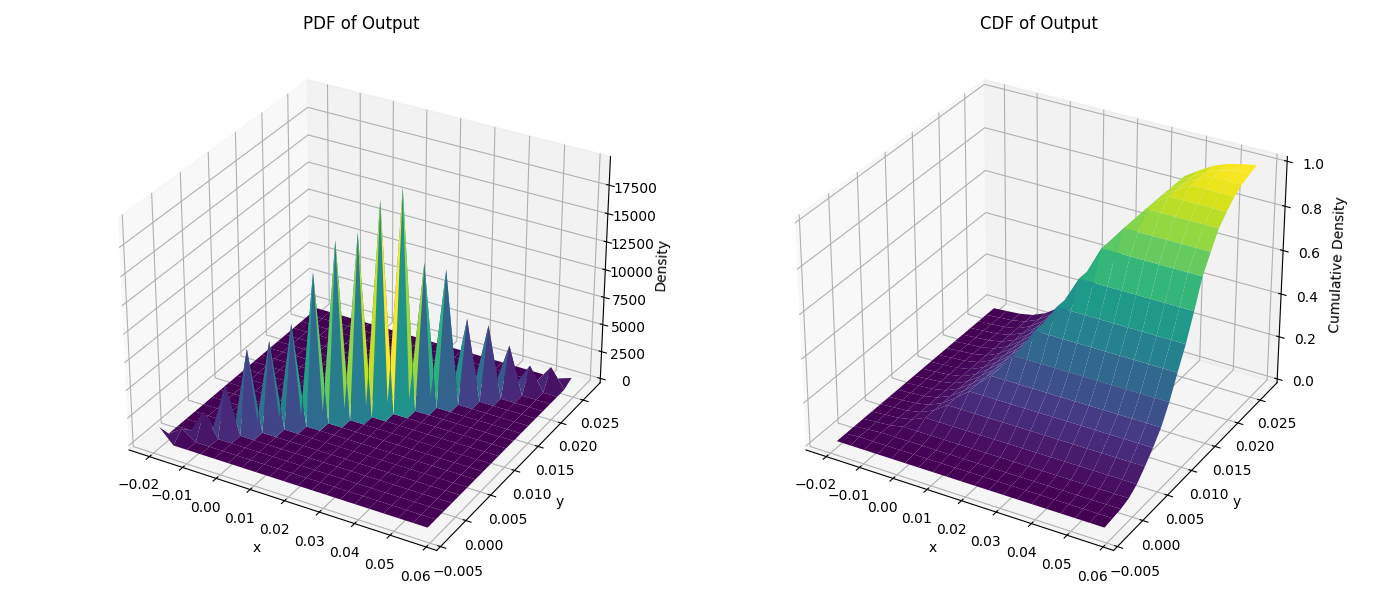
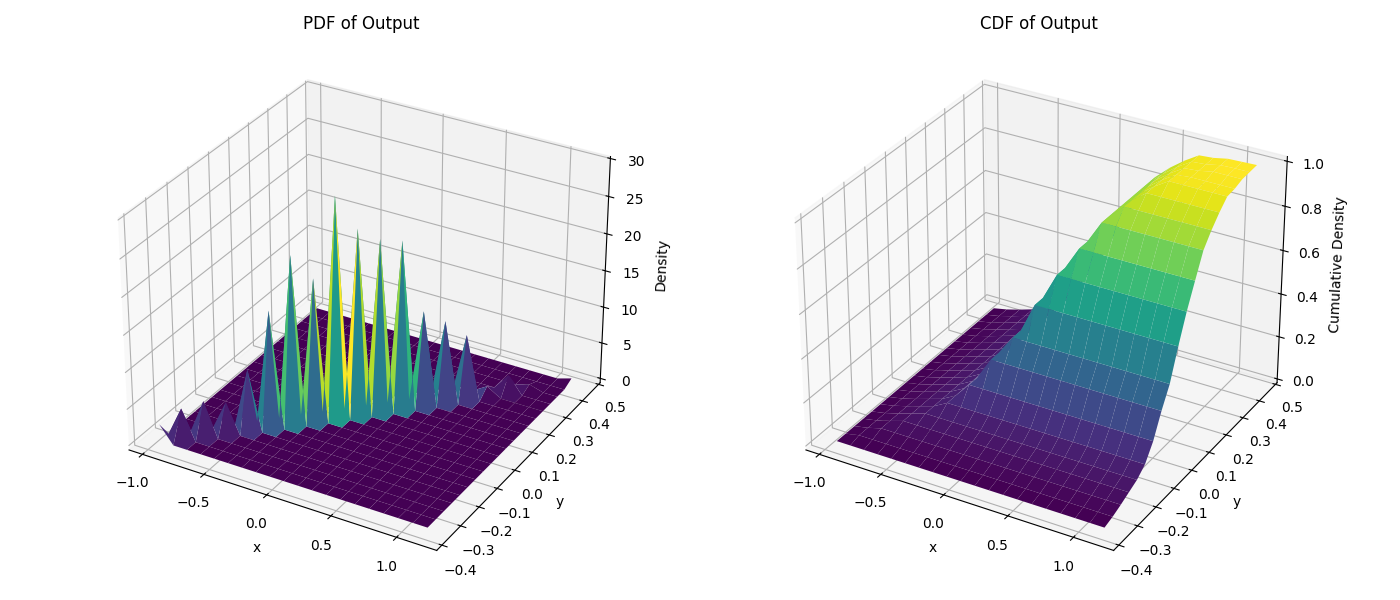
save

diff --git a/src/exame/cnice/34node/disaccuracyrtry.py b/src/exame/cnice/34node/disaccuracyrtry.py
@@ -89,7 +89,7 @@ _weights = np.random.randint(1, 10, size=(n_components,))
 _weights = _weights / np.sum(_weights)
 _weights = _weights.round(2)
 _active_power_index = np.random.normal(0,
-                                      scale=0.2, 
+                                      scale=5, 
                                       size=(batch_size, )) + mean_vector[1+p_index]
 # for _w in _weights:
 #     _active_power_index = np.concatenate((_active_power_index, 
@@ -120,8 +120,8 @@ scaled_reactive_power = scaler_q.transform(_reactive_power)
 gmm = GaussianMixture(n_components=n_components, covariance_type='full', random_state=0)
 _target_samples = np.concatenate((scaled_active_power[:, p_index].reshape(-1, 1),
                                   scaled_reactive_power[:, p_index].reshape(-1, 1)), axis=1)
-# gmm.fit(_target_samples[:, 0].reshape(-1, 1))
-gmm.fit(_target_samples)
+gmm.fit(_target_samples[:, 0].reshape(-1, 1))
+# gmm.fit(_target_samples)
 print(f"GMM means: {gmm.means_}, covariances: {gmm.covariances_}, weights: {gmm.weights_}")
 print(f"target samples, mean and variance: {_target_samples.mean(axis=0)}, {_target_samples.std(axis=0)}")
 concat_vm_va = np.concatenate((scaled_vm, scaled_va), axis=1)
@@ -245,7 +245,7 @@ plt.close()
 # Condition input, the same for all does not matter the p_index as it will be replaced in the null token, the scenario is fixed
 nice_model.eval()
 x_inverse, _ja_inverse = nice_model.inverse(output_y, input_c, index_p=p_index, index_v=v_index)
-p_y_compute = gmm.score_samples(x_inverse.detach().numpy())
+p_y_compute = gmm.score_samples(x_inverse[:,0].detach().numpy().reshape(-1, 1))
 p_y_compute = torch.tensor(p_y_compute, dtype=torch.float32)
 p_y_compute = p_y_compute.exp()* _ja_inverse
 print(_ja_inverse.mean().item(), p_y_compute.mean().item())
@@ -261,15 +261,19 @@ for i in range(n_bins):
         (y[:, 0] >= grid_y0[0, i]) &
         (y[:, 0] <  grid_y0[0, i] + (max_y0 - min_y0) / n_bins)    # x in x-bin i
         )
-
+        
         if np.sum(filter) > 0:
-            density_y[j, i] = p_y_compute[filter].mean()
+            density_y[j, i] = p_y_compute[filter].mean() # multiply by the area
         else:
             density_y[j, i] = 0.0
 
 # Compute cdf
-cum_density_y = torch.cumsum(torch.cumsum(density_y, dim=0), dim=1) * gap_area
-
+cum_density_y = torch.zeros((n_bins, n_bins))
+for i in range(n_bins):
+    for j in range(n_bins):
+        # sum over all bins less than or equal to (i, j)
+        density_sum = density_y[:j+1, :i+1].sum()
+        cum_density_y[j, i] = density_sum * gap_area  # multiply by the area
 
 # plot the density of the output
 fig = plt.figure(figsize=(14, 6))
